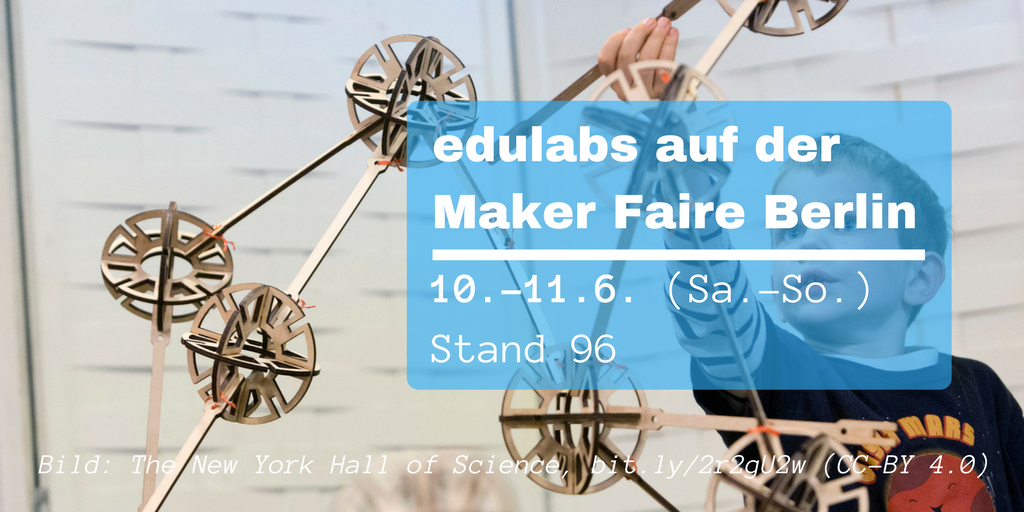
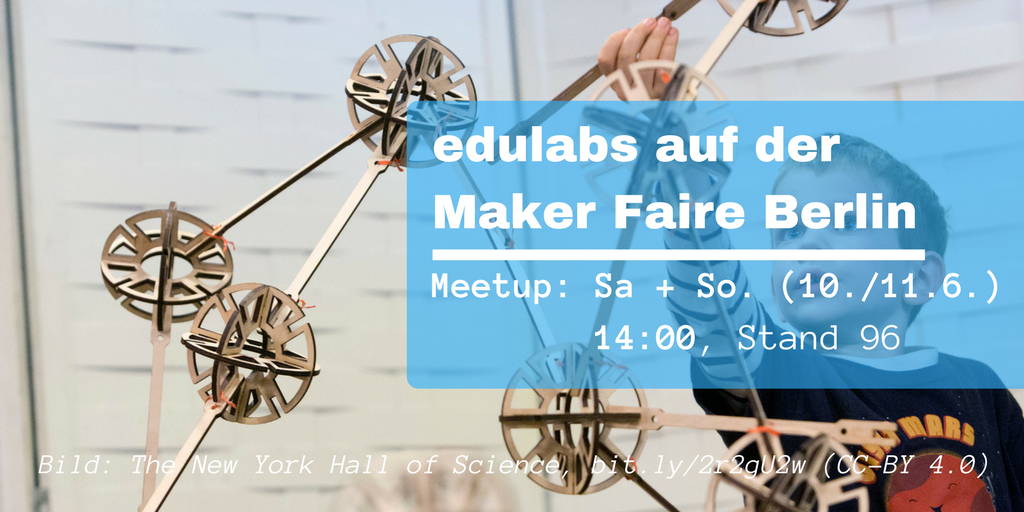
meetup maker faire: Zeiten ergänzt

Changed region(s): [[0.4062, 0.1875, 1.0, 0.7812], [0.4062, 0.625, 0.6875, 0.7188], [0.7188, 0.625, 0.875, 0.6875]]

diff --git a/_posts/2017-06-06-Edulabs-Maker-Faire.md b/_posts/2017-06-06-Edulabs-Maker-Faire.md
@@ -11,10 +11,13 @@ Am 10. und 11. Juni treffen sich Maker, Eltern, Kinder und andere Freund\*innen 
 
 Neben zahlreichen Projekt-Ständen, auf denen Maker ihre Erfindungen ausstellen, gibt es noch viele andere Dinge zu entdecken. So könnt  ihr in [Workshops](https://maker-faire.de/berlin/workshops/) [kleine Roboter bauen](https://maker-faire.de/workshop/berlin/2017/bau-dir-einen-sensorgesteuerten-mini-roboter/) oder in [Vorträgen](https://maker-faire.de/berlin/vortraege/) spannenden Inputs lauschen. Wie beispielsweise Nikola Chernev, der über [“Educational Materials and Games Created in FabLabs – Use Cases, How-tos and Success Stories”](https://maker-faire.de/vortrag/berlin/2017/educational-materials-and-games-created-in-fablabs-use-cases-how-tos-and-success-stories/) oder Astrid Lorenzen, die über [“Wiederverwendung durch Reparatur stärken – Potenziale des 3D-Druck zur Ersatzteilbeschaffung nutzen”](https://maker-faire.de/vortrag/berlin/2017/wiederverwendung-durch-reparatur-staerken-potentiale-des-3d-druck-zur-ersatzteilbeschaffung-nutzen/) sprechen werden.
 
-Du hast ein Projekt entdeckt, das Dir besonders gefällt und kannst Dir vorstellen, dass es sich für den Unterricht eignet? Dann besuche unser Meetup um XX Uhr an unserem Stand. Dort stellen wir [aktuelle Vorhaben](https://hackdash.org/dashboards/edulabs) aus den edulabs vor, planen zusammen die nächsten Events und freuen uns über neue Ideen.
+Du hast ein Projekt entdeckt, das Dir besonders gefällt und kannst Dir vorstellen, dass es sich für den Unterricht eignet? Dann besuche unsere Meetups am __Samstag und Sonntag (10./11.6.), jeweils um 14 Uhr__ an unserem Stand. Dort stellen wir [aktuelle Vorhaben](https://hackdash.org/dashboards/edulabs) aus den edulabs vor, planen zusammen die nächsten Events und freuen uns über neue Ideen.
 
 Ihr findet uns am Stand 96, direkt neben [Jugend Hackt](https://jugendhackt.org/).
 
+<center><a class="btn btn-lg btn-default"
+   href="https://www.meetup.com/edulabsBE/events/240574355/"
+   role="button">Zur Anmeldung (Sa. 10.6. und So. 11.6., 14:00) »</a></center>
 
 # Weitere Informationen
 [Anmeldung (Meetup)](https://www.meetup.com/edulabsBE/events/240574355/)<br>
